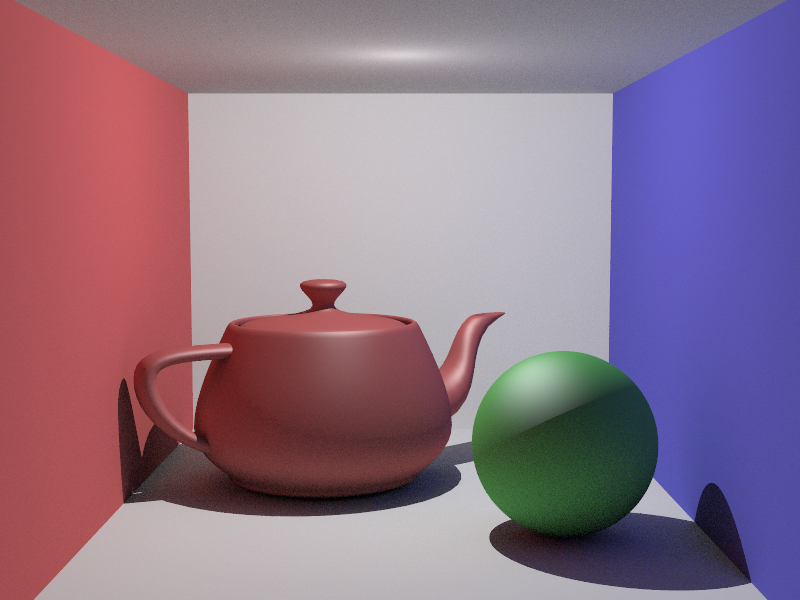
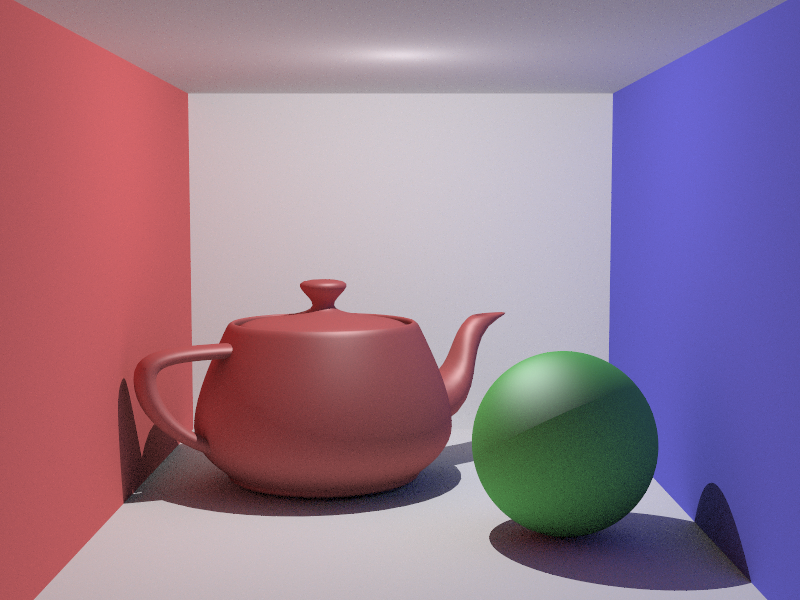
Add sample images

diff --git a/BHRayTracer/DataStructure/MtlBlinn.cpp b/BHRayTracer/DataStructure/MtlBlinn.cpp
@@ -150,22 +150,22 @@ Color GlobalIllumination(const TexturedColor& diffuse, const HitInfo& hInfo, con
 
 		GIRay.p = hInfo.p + vN * Bias;
 
-		float cosTheta = vN.Dot(GIRay.dir);
+		// float cosTheta = vN.Dot(GIRay.dir);
 
 		HitInfo reflHInfo = HitInfo();
 		bool bReflectionHit = false;
 		recursive(&rootNode, GIRay, reflHInfo, bReflectionHit, 0);
 		if (bReflectionHit && reflHInfo.node != nullptr) {
-			GIColorSum += reflHInfo.node->GetMaterial()->Shade(GIRay, reflHInfo, lights, o_bounceCount, i_bounceCount) *cosTheta * diffuse.Sample(hInfo.uvw, hInfo.duvw);
+			GIColorSum += reflHInfo.node->GetMaterial()->Shade(GIRay, reflHInfo, lights, o_bounceCount, i_bounceCount) /**cosTheta*/ * diffuse.Sample(hInfo.uvw, hInfo.duvw);
 		}
 		else {
 			// doesn't bounce to anything
 			Vec3f dir_norm = GIRay.dir;
-			if (dir_norm.x == dir_norm.y && dir_norm.x == 0) 
+			if (dir_norm.x == dir_norm.y && dir_norm.x == 0)
 				// nan situation
 				GIColorSum += Color::Black();
 			else {
-				GIColorSum += environment.SampleEnvironment(dir_norm) * cosTheta * diffuse.Sample(hInfo.uvw, hInfo.duvw);
+				GIColorSum += environment.SampleEnvironment(dir_norm)/* * cosTheta*/ * diffuse.Sample(hInfo.uvw, hInfo.duvw);
 			}
 		}
 	}

diff --git a/BHRayTracer/Main.cpp b/BHRayTracer/Main.cpp
@@ -42,9 +42,9 @@ Color TraceRayMultiple(int i, int j);
 //---------------
 // Use Components
 
-//#define USE_MSAA
+#define USE_MSAA
 //#define ENABLE_DEPTH_OF_VIEW
-//#define USE_GamaCorrection
+#define USE_GamaCorrection
 
 #define GIBounceCount 1
 //---------------
@@ -312,14 +312,14 @@ void recursive(Node* root, const Ray& ray, HitInfo & outHit, bool &_bHit, int hi
 }
 void SaveImages() {
 	//renderImage.ComputeZBufferImage();
-	renderImage.SaveImage("Resource/Result/proj10.png");
+	renderImage.SaveImage("Resource/Result/proj11_0.png");
 	renderImage.ComputeSampleCountImage();
-	renderImage.SaveSampleCountImage("Resource/Result/proj10_sample.png");
+	renderImage.SaveSampleCountImage("Resource/Result/proj11_0_sample.png");
 }
 int main() {
 
 	omp_set_num_threads(16);
-	const char* filename = "Resource/Data/proj10.xml";
+	const char* filename = "Resource/Data/proj11_0.xml";
 	LoadScene(filename);
 
 	printf("Render image width: %d\n", renderImage.GetWidth());
